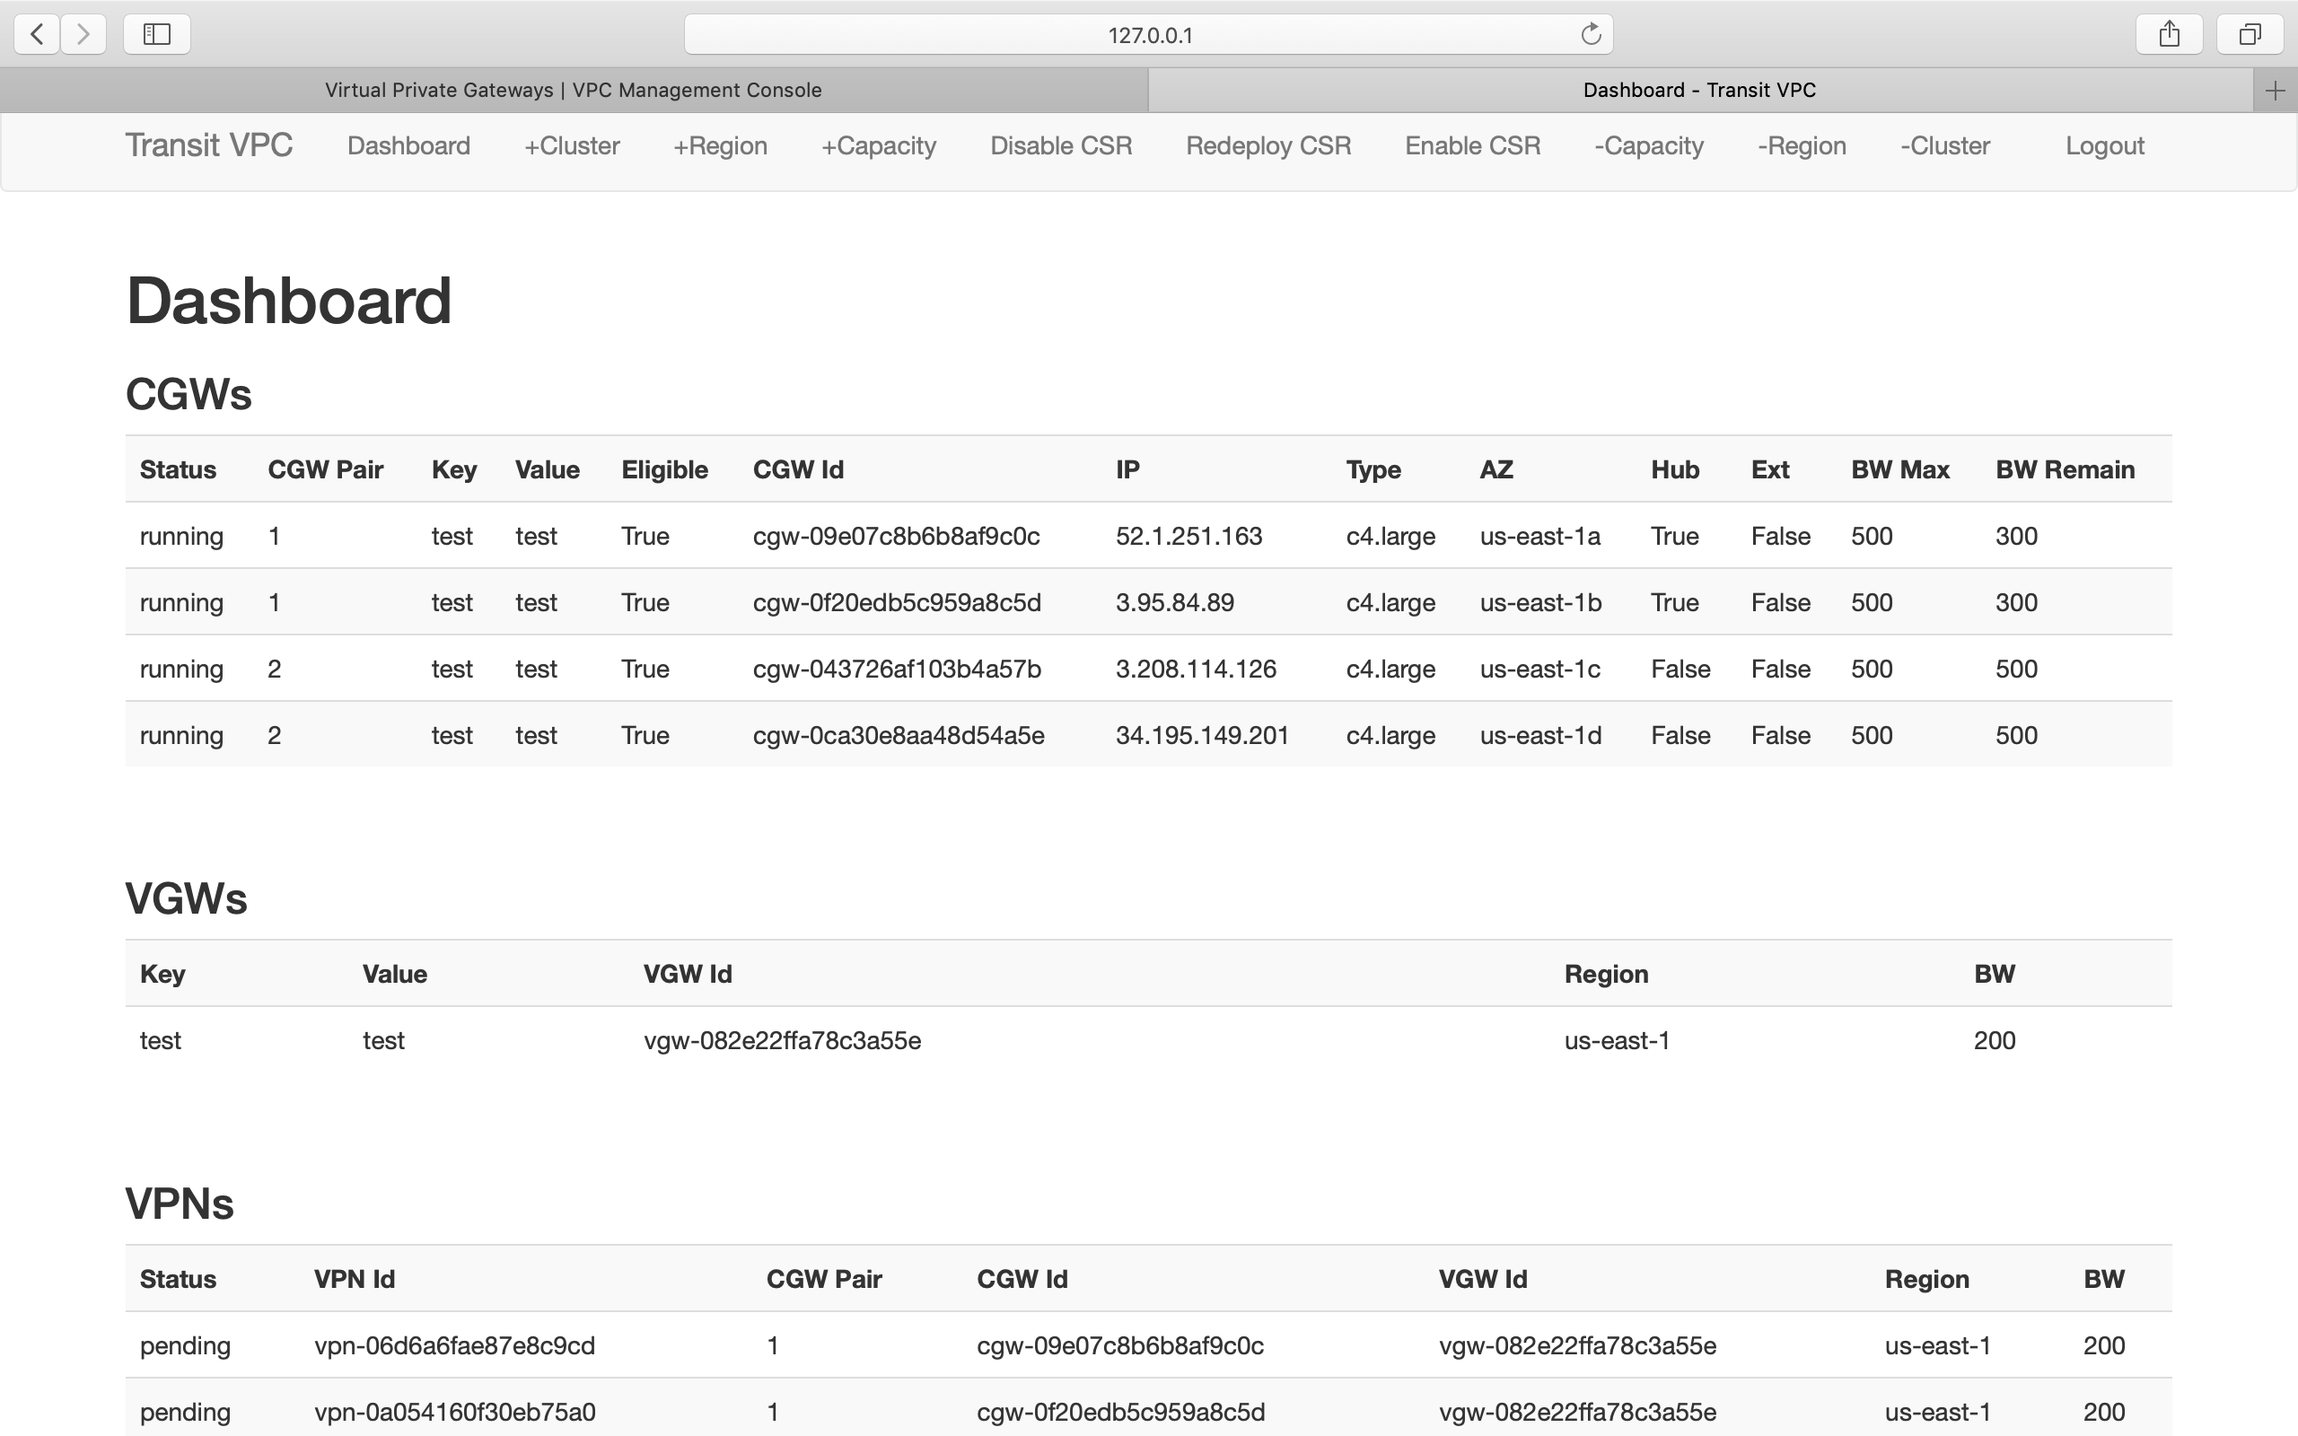
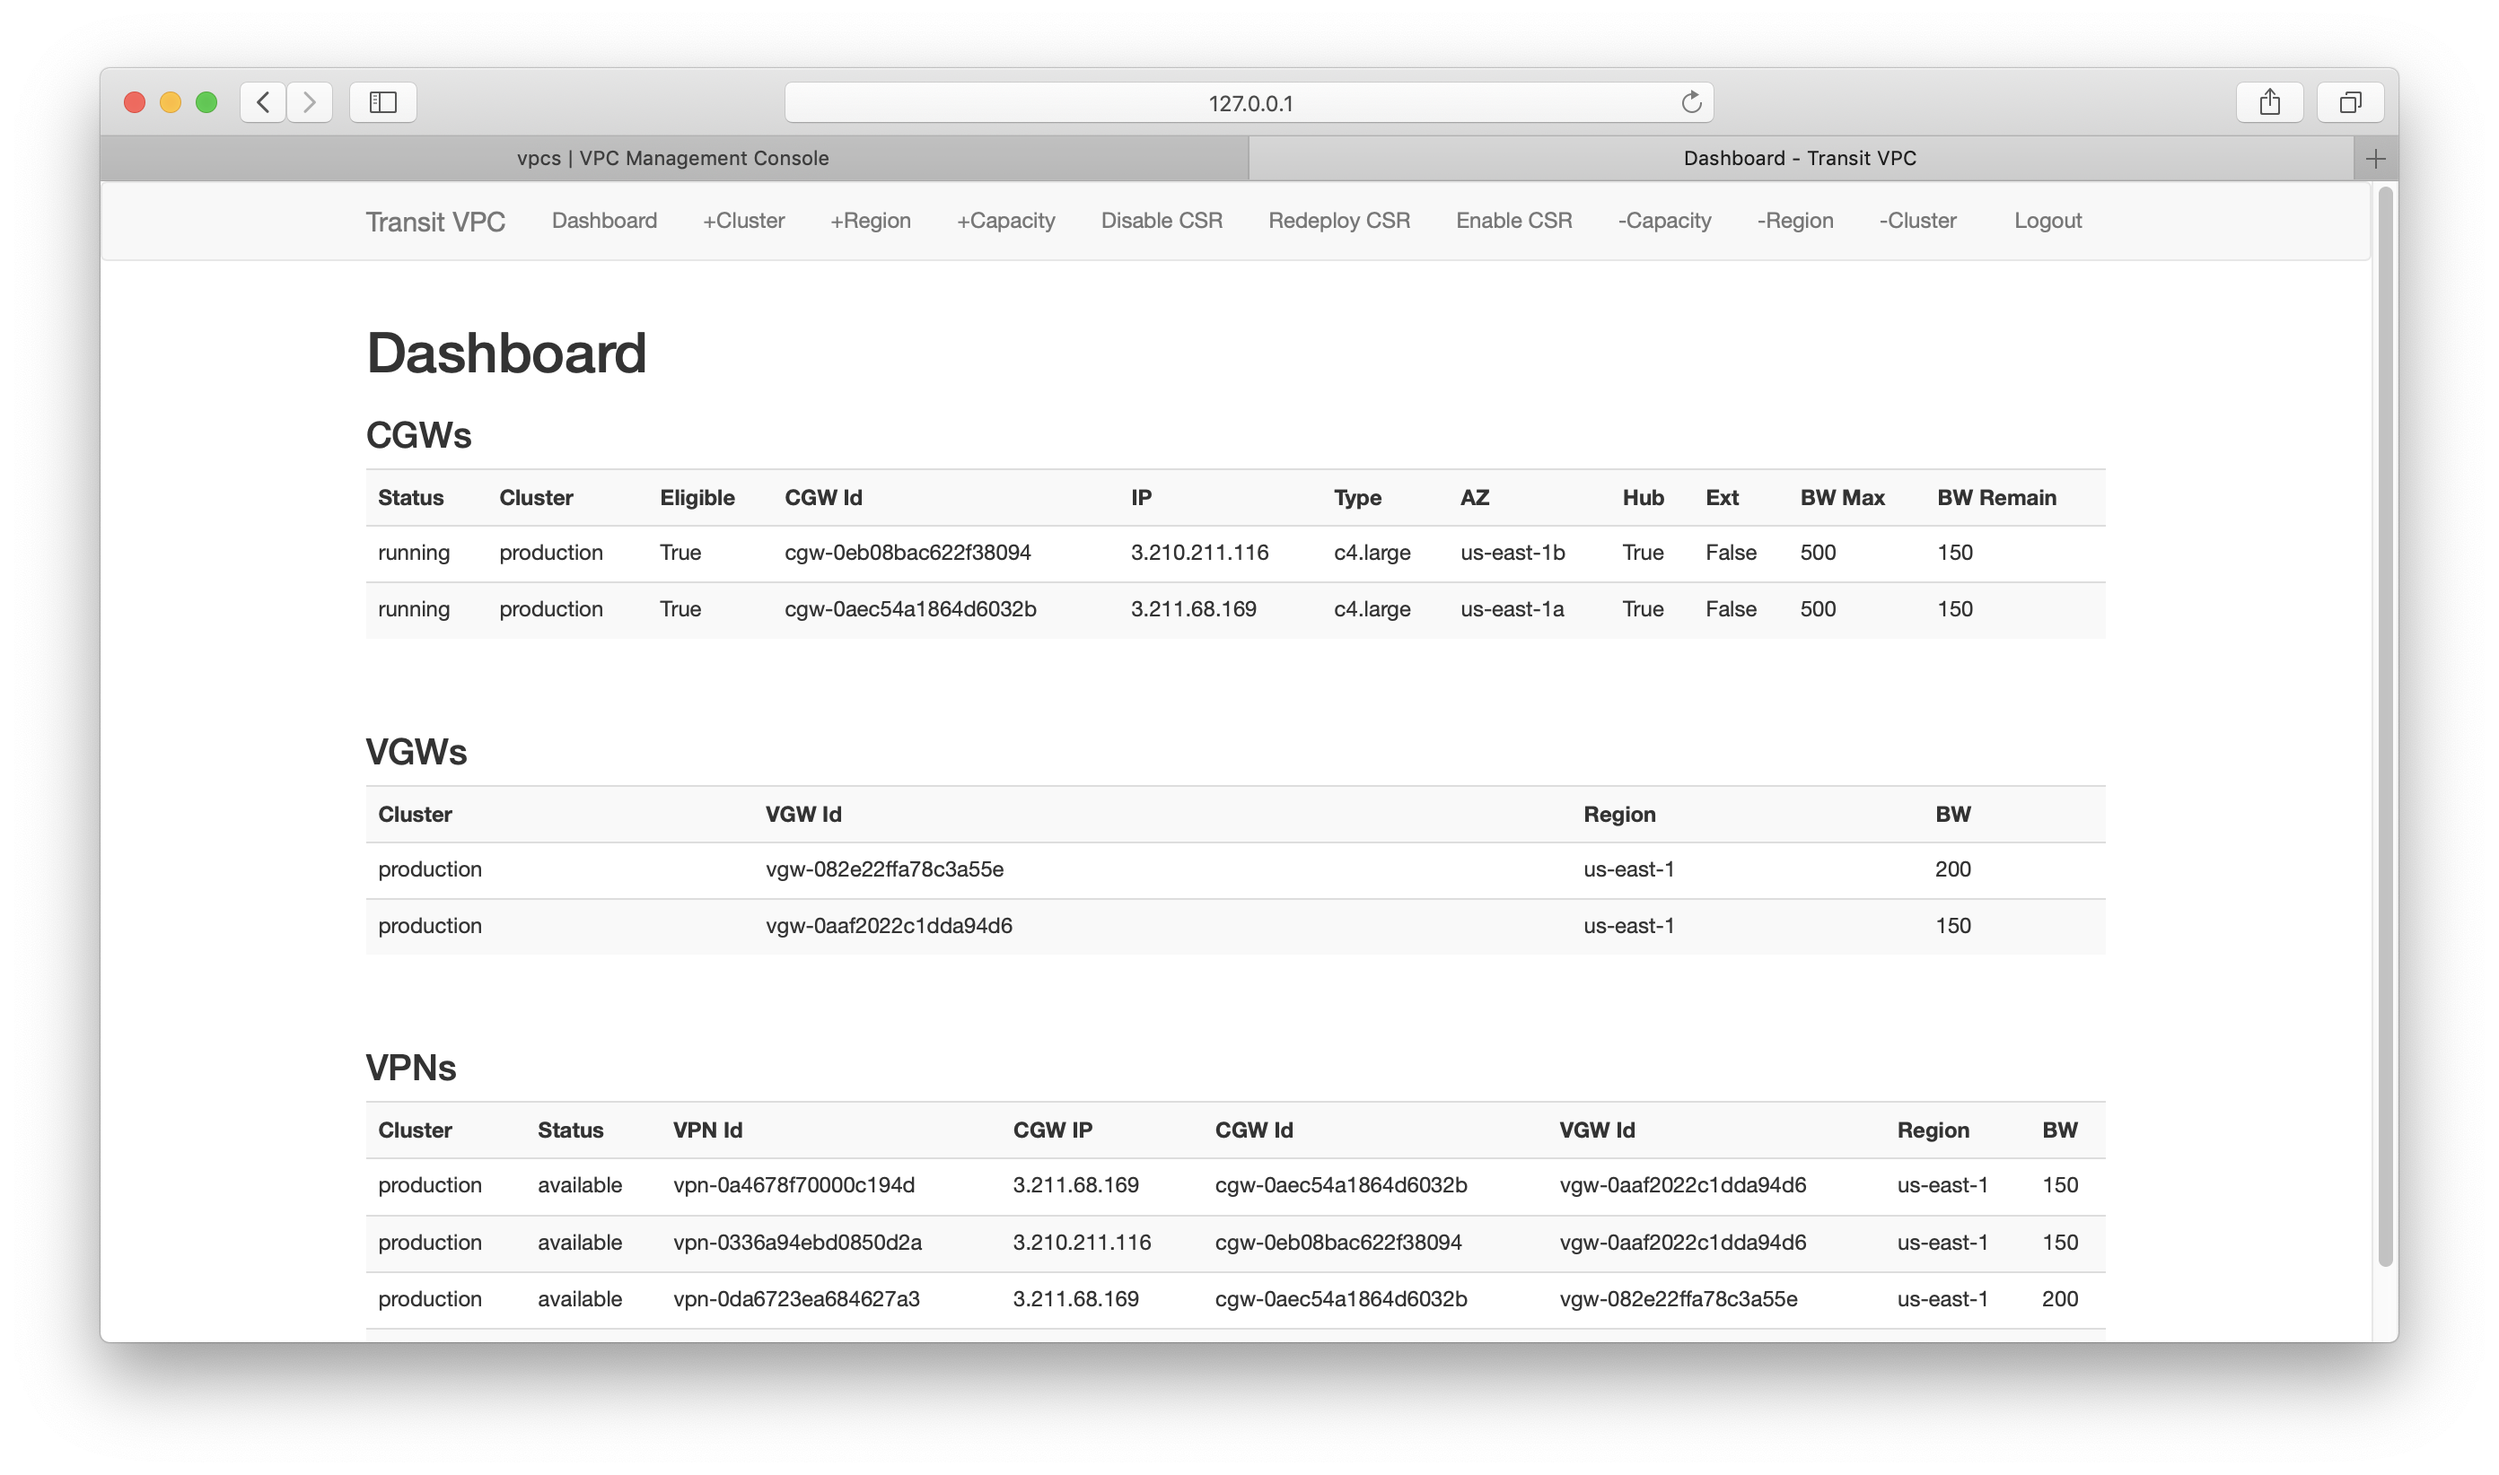
added time.sleep to pause while VPCs are built

diff --git a/web_app/templates/dashboard.html b/web_app/templates/dashboard.html
@@ -61,6 +61,7 @@
             <h3>VPNs</h3>
     <table class="table table-striped table-dark">
       <tr>
+          <th scope="col">Cluster</th>
           <th scope="col">Status</th>
           <th scope="col">VPN Id</th>
           <th scope="col">CGW IP</th>
@@ -71,6 +72,7 @@
       </tr>
         {% for i in vpns%}
             <TR>
+                <TD>{{ i.cluster_value }}</TD>
                 <TD>{{ i.status_aws }}</TD>
                 <TD>{{ i.VpnConnectionId }}</TD>
                 <TD>{{ i.PublicIp }}</TD>

diff --git a/modules/setup_add_cluster.py b/modules/setup_add_cluster.py
@@ -123,6 +123,7 @@ def build_main(results_queue, cgw):
         cgw.PublicIp = response['PublicIp']
 
         vpc = ec2.create_vpc(CidrBlock=cgw.vpc_cidr)
+        time.sleep(5)
         cgw.VpcId = vpc.id
         vpc.wait_until_available()
         vpc.create_tags(Tags=[{"Key": "Name", "Value": "transit_vpc"}, {"Key": settings.tvpc_program_key,

diff --git a/modules/setup_capacity_add.py b/modules/setup_capacity_add.py
@@ -101,6 +101,7 @@ def build_main(results_queue, cgw):
         cgw.PublicIp = response['PublicIp']
 
         vpc = ec2.create_vpc(CidrBlock=cgw.vpc_cidr)
+        time.sleep(5)
         cgw.VpcId = vpc.id
         vpc.wait_until_available()
         vpc.create_tags(Tags=[{"Key": "Name", "Value": "transit_vpc"}, {"Key": settings.tvpc_program_key,

diff --git a/modules/setup_extend_cluster.py b/modules/setup_extend_cluster.py
@@ -122,6 +122,7 @@ def build_main(results_queue, cgw):
         cgw.PublicIp = response['PublicIp']
 
         vpc = ec2.create_vpc(CidrBlock=cgw.vpc_cidr)
+        time.sleep(5)
         cgw.VpcId = vpc.id
         vpc.wait_until_available()
         vpc.create_tags(Tags=[{"Key": "Name", "Value": "transit_vpc"}, {"Key": settings.tvpc_program_key,

diff --git a/modules/setup_redeploy_csr.py b/modules/setup_redeploy_csr.py
@@ -101,6 +101,7 @@ def build_main(old_cgw, cgw):
         cgw.PublicIp = response['PublicIp']
 
         vpc = ec2.create_vpc(CidrBlock=cgw.vpc_cidr)
+        time.sleep(5)
         cgw.VpcId = vpc.id
         vpc.wait_until_available()
         vpc.create_tags(Tags=[{"Key": "Name", "Value": "transit_vpc"}, {"Key": settings.tvpc_program_key,
